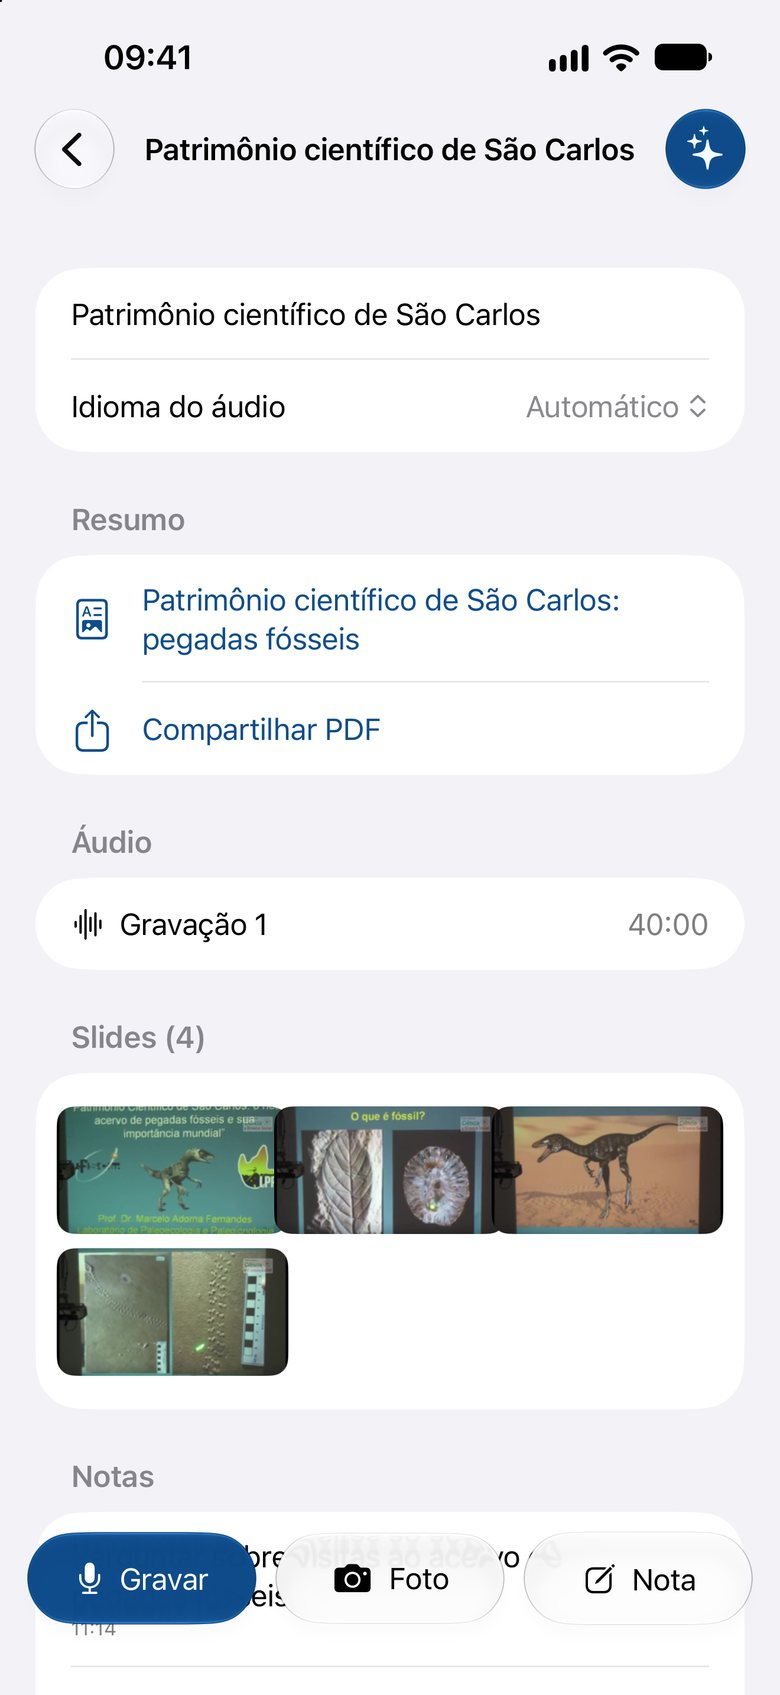
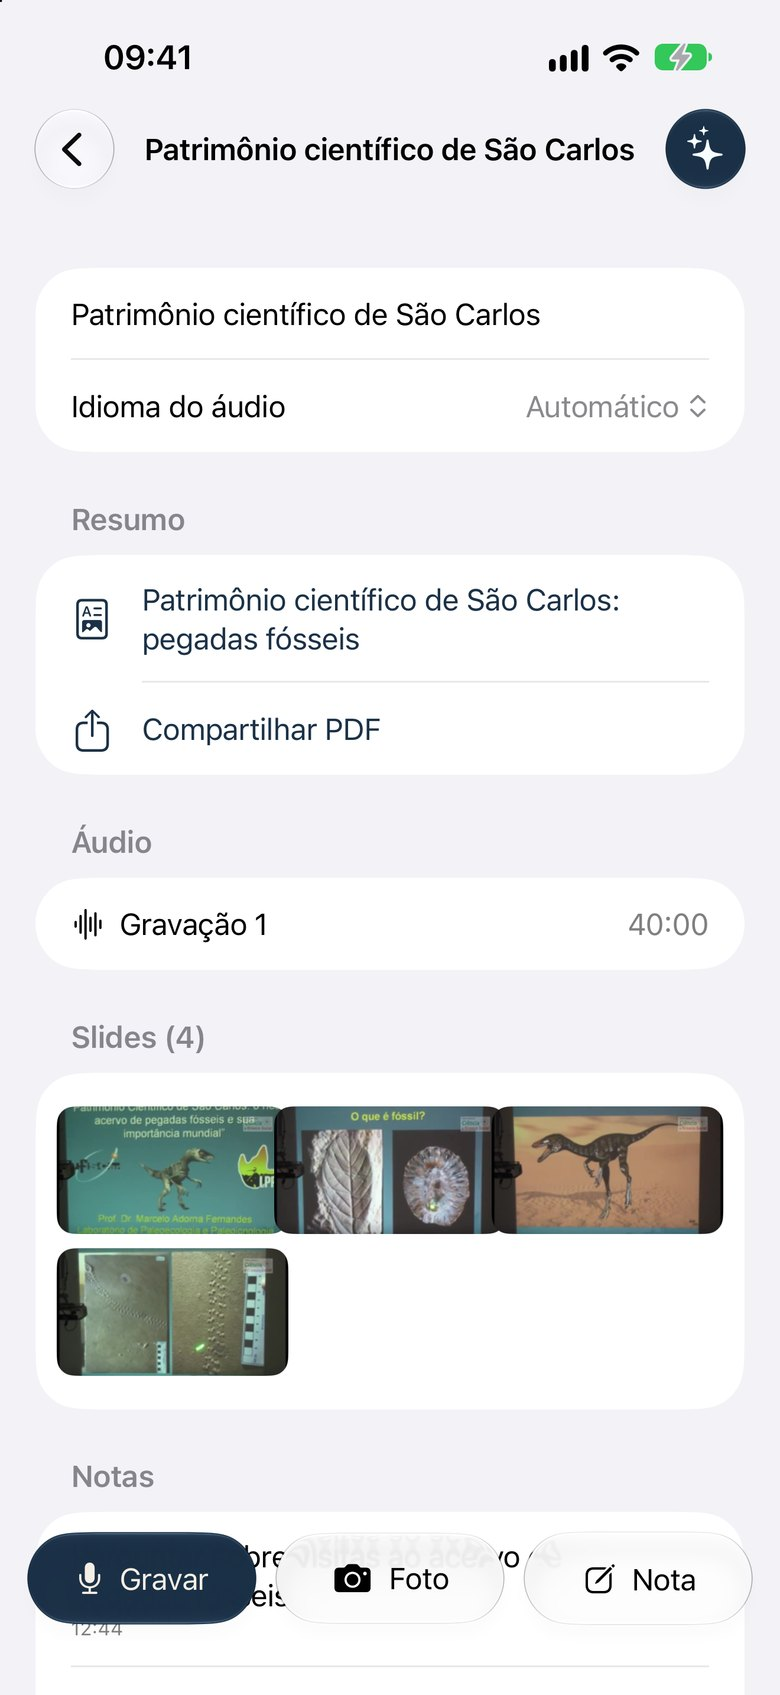
ResumAI: telas do app com a nova identidade e seletor de modelos

diff --git a/resumai/index.html b/resumai/index.html
@@ -80,7 +80,7 @@
         <p class="dek">O PDF é o artefato: ideia central, tópicos, insights e citações, no mesmo ritmo de um texto revisado.</p>
         <figure class="figure-pdf">
           <img src="/resumai/img/pdf-briefing.jpg" width="1120" height="1584" alt="Primeira página de um resumo executivo em PDF gerado pelo ResumAI, com ideia central, tópicos e citações.">
-          <figcaption>Uma página de resumo — o resultado que o app devolve após a palestra.</figcaption>
+          <figcaption>Uma página de resumo — o resultado que o app devolve após a palestra. O slide visível é do painel Wikimania@20 (CC BY-SA 4.0, Wikimedia Commons).</figcaption>
         </figure>
         <div class="figure-pair">
           <figure>
@@ -90,6 +90,10 @@
           <figure>
             <img src="/resumai/img/iphone-registro.jpg" width="780" height="1695" alt="Tela de um registro no ResumAI, com áudio, notas e fotos de slides.">
             <figcaption>Áudio, slides e notas no mesmo registro.</figcaption>
+          </figure>
+          <figure>
+            <img src="/resumai/img/iphone-modelos.jpg" width="780" height="1695" alt="Seletor de modelos do PDF no ResumAI: Editorial, Executivo, Caderno e Essencial.">
+            <figcaption>Quatro modelos, o mesmo conteúdo.</figcaption>
           </figure>
         </div>
       </section>

diff --git a/resumai/style.css b/resumai/style.css
@@ -438,7 +438,7 @@ figcaption {
 
 .figure-pair {
   display: grid;
-  grid-template-columns: repeat(2, minmax(0, 17.5rem));
+  grid-template-columns: repeat(3, minmax(0, 17.5rem));
   gap: 1.5rem;
   justify-content: start;
   margin: 0;
